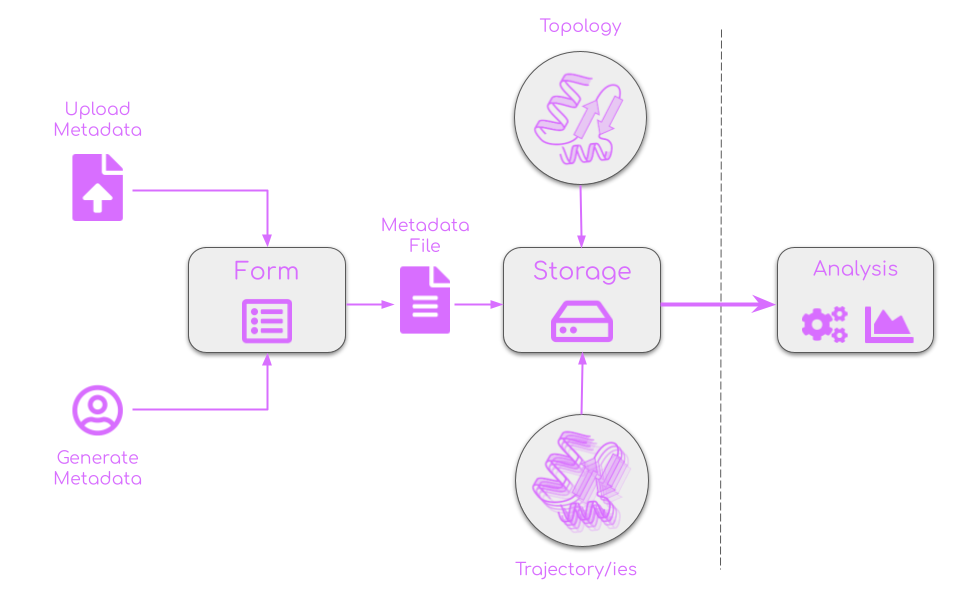
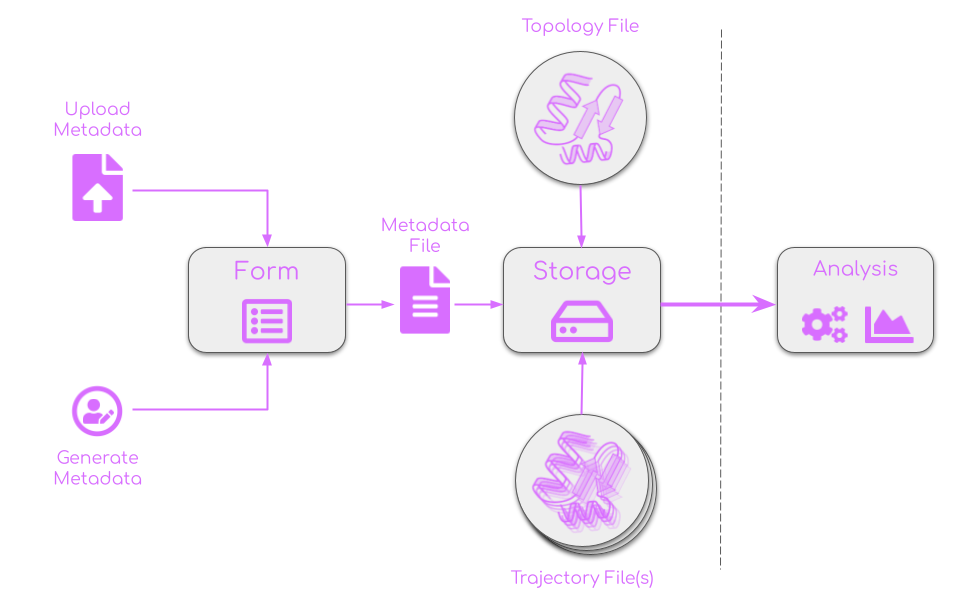
YAML input for each component except Ligans

diff --git a/pages/index.vue b/pages/index.vue
@@ -71,12 +71,18 @@
           rounded
           width="100%"
         >
-          <v-icon
-            class="mb-5"
-            color="purple-accent-1"
-            icon="mdi-playlist-edit"
-            size="80"
-          ></v-icon>
+          <span class="material-icons icon-stack">
+            <v-icon
+              color="purple-accent-1"
+              icon="mdi-circle-outline"
+              class="icon-back"
+            ></v-icon>
+            <v-icon
+              color="purple-accent-1"
+              icon="mdi-account-edit"
+              class="icon-front"
+            ></v-icon>
+          </span>
 
           <h2 class="text-h5 mb-6">{{ texts.start.title }}</h2>
 
@@ -122,7 +128,7 @@
   import validateYAML from '@/modules/structure/validateYAML'
 
   const { $globals } = useNuxtApp()
-  const { setMetadata } = structureStorage()
+  const { setMetadata, cleanMetadata } = structureStorage()
   const { validate } = validateYAML()
 
   const dialog = ref(false)
@@ -130,6 +136,8 @@
   const parsedYaml = ref(null)
 
   const metaDisabled = computed(() => !metaFile.value)
+
+  cleanMetadata()
 
   useHead({
     title: 'Home'
@@ -167,17 +175,22 @@
     if (!metaFile.value) return
 
     try {
+      // parse YAML
       const content = await readFileAsText(metaFile.value)
       parsedYaml.value = YAML.parse(content)
       const check = validate(content)
+      // check if valid
       if(!check.isValid) {
         //console.error('Error parsing YAML:', check.errors)
         metaFile.value = null
         openDialog('Error parsing YAML', `Parameter <strong>${check.errors[0].instancePath}</strong> ${check.errors[0].message}`, 'error')
         return
       }
-      console.log('store and go to upload')
-      // TODO: save parsedYaml.value to structureStorage and go to /upload
+      // store and go to upload page
+      Object.keys(parsedYaml.value).forEach(key => {
+        setMetadata(key, parsedYaml.value[key])
+      })
+      navigateTo('/upload')
     } catch (err) {
       console.error('Error parsing YAML:', err)
     }
@@ -222,4 +235,21 @@
   }
   .text-body-2 { min-height:40px; }
   .img-schema { max-width: 100%; }
+  .icon-stack {
+    position: relative;
+    display: inline-block;
+    margin-bottom: 20px;
+  }
+
+  .icon-back {
+    font-size: 80px;
+  }
+
+  .icon-front {
+    position: absolute;
+    top: 50%;
+    left: 50%;
+    transform: translate(-50%, -50%);
+    font-size: 50px;
+  }
 </style>

diff --git a/components/metadata/SelectField.vue b/components/metadata/SelectField.vue
@@ -54,16 +54,23 @@
   import useRules from '@/modules/helpers/useRules'
   import useREST from '@/modules/helpers/useREST'
 
-  const { setMetadata, getDependingItems } = structureStorage()
+  const { setMetadata, getDependingItems, getMetadataField } = structureStorage()
   const { getRules } = useRules()
   const { getSelectOptions } = useREST()
   const { $sleep } = useNuxtApp()
 
   const { props } = defineProps(['props'])
   const autocompleteRefs = ref([])
-  const truncateWidth = computed(() => autocompleteRefs.value.$el.offsetWidth + 'px')
+  const truncateWidth = computed(() => {
+    if(autocompleteRefs.value?.[0]?.$el) return autocompleteRefs.value[0].$el.offsetWidth + 'px'
+    else return '100px'
+  })
   const refModel = ref(props.default)
-  if(props.default !== undefined) setMetadata(props.id, refModel.value)
+  //if(props.default !== undefined) setMetadata(props.id, refModel.value)
+  // if the default value is set and the metadata field is not set, set the metadata field to the default value
+  if(props.default !== undefined && !getMetadataField(props.id)) setMetadata(props.id, refModel.value)
+  // if the metadata field is set, set the input value to the metadata field
+  if(getMetadataField(props.id)) refModel.value = getMetadataField(props.id)
   const required = ref(props.required)
   const otherField = ref(null)
   const other = ref(null)
@@ -75,6 +82,7 @@
   else if(props.depending) {
     items = computed(() => getDependingItems(props.depending))
     if(props.default !== undefined) refModel.value = items.value[props.default]
+    if(getMetadataField(props.id)) refModel.value = items.value[getMetadataField(props.id)]
   } else items.value = ref([])
 
   // add Other option if props.other is true

diff --git a/components/metadata/SelectInput.vue b/components/metadata/SelectInput.vue
@@ -59,21 +59,27 @@
   import structureStorage from '@/modules/structure/structureStorage'
   import useRules from '@/modules/helpers/useRules'
 
-  const { setMetadata } = structureStorage()
+  const { setMetadata, getMetadataField } = structureStorage()
   const { getRules } = useRules()
   const { $sleep } = useNuxtApp()
 
   const { props } = defineProps(['props'])
-  const refModelSelect = ref(null)
-  const refModelInput = ref(null)
   const otherField = ref(null)
   const other = ref(null)
 
   const select = props.fields.filter(f => f.type === 'select')[0]
   const items = select.items
   const input = props.fields.filter(f => f.type === 'input')[0]
-  setMetadata(select.id, refModelSelect.value)
-  setMetadata(input.id, refModelInput.value)
+  const refModelSelect = ref(select.default)
+  const refModelInput = ref(input.default)
+  // if the default value is set and the metadata field is not set, set the metadata field to the default value
+  if(select.default !== undefined && !getMetadataField(select.id)) setMetadata(select.id, refModelSelect.value)
+  if(input.default !== undefined && !getMetadataField(input.id)) setMetadata(input.id, refModelInput.value)
+  // if the metadata field is set, set the input value to the metadata field
+  if(getMetadataField(select.id)) refModelSelect.value = getMetadataField(select.id)
+  if(getMetadataField(input.id)) refModelInput.value = getMetadataField(input.id)
+  /*setMetadata(select.id, refModelSelect.value)
+  setMetadata(input.id, refModelInput.value)*/
 
   const selRules = ref(select.rules ? getRules(select.rules) : [])
   const inpRules = ref(input.rules ? getRules(input.rules) : [])

diff --git a/components/metadata/RichTextAreaField.vue b/components/metadata/RichTextAreaField.vue
@@ -24,13 +24,14 @@
   import structureStorage from '@/modules/structure/structureStorage'
   import useRules from '@/modules/helpers/useRules'
 
-  const { setMetadata } = structureStorage()
+  const { setMetadata, getMetadataField } = structureStorage()
   const { getRules } = useRules()
 
   const { props } = defineProps(['props'])
   const refModel = ref(null)
   const refModel2 = ref(null)
-  if(props.default !== undefined) setMetadata(props.id, refModel.value)
+  // if the default value is set and the metadata field is not set, set the metadata field to the default value
+  if(props.default !== undefined && !getMetadataField(props.id)) setMetadata(props.id, refModel.value)  
   const required = ref(props.required)
   // TODO
   const rules = ref(props.rules ? getRules(props.rules) : [])
@@ -54,6 +55,12 @@
     if (props.default) {
       editor.clipboard.dangerouslyPasteHTML(props.default);
       setMetadata(props.id, editor.root.innerHTML)
+      refModel2.value = editor.root.innerText == '\n' || editor.root.innerText == '' ? '' : editor.root.innerText
+    }
+
+    // if the metadata field is set, set the input value to the metadata field
+    if(getMetadataField(props.id)) {
+      editor.clipboard.dangerouslyPasteHTML(getMetadataField(props.id));
       refModel2.value = editor.root.innerText == '\n' || editor.root.innerText == '' ? '' : editor.root.innerText
     }
 

diff --git a/components/metadata/MultipleSelectField.vue b/components/metadata/MultipleSelectField.vue
@@ -63,7 +63,7 @@
   import useRules from '@/modules/helpers/useRules'
   import useREST from '@/modules/helpers/useREST'
 
-  const { setMetadata, getDependingItems } = structureStorage()
+  const { setMetadata/*, getDependingItems*/, getMetadataField } = structureStorage()
   const { getRules, checkAllValuesAgainstRules } = useRules()
   const { getSelectOptions } = useREST()
   const { $sleep } = useNuxtApp()
@@ -74,11 +74,14 @@
     if(autocompleteRefs.value?.[0]?.$el) return autocompleteRefs.value[0].$el.offsetWidth + 'px'
     else return '100px'
   })
-  let refInputs = ref([''])
-  if(props.default !== undefined) {
+  let refInputs = ref([null])
+  if(props.default !== undefined && !getMetadataField(props.id)) setMetadata(props.id, refInputs.value)
+  /*if(props.default !== undefined) {
     refInputs.value[0] = props.default
     setMetadata(props.id, refInputs.value)
-  }
+  }*/
+  if(getMetadataField(props.id)) refInputs.value = getMetadataField(props.id)
+
 
   /*const refModel = ref(props.default)
   if(props.default !== undefined) setMetadata(props.id, refModel.value)*/

diff --git a/components/metadata/InputField.vue b/components/metadata/InputField.vue
@@ -20,12 +20,15 @@
   import structureStorage from '@/modules/structure/structureStorage'
   import useRules from '@/modules/helpers/useRules'
 
-  const { setMetadata } = structureStorage()
+  const { setMetadata, getMetadataField } = structureStorage()
   const { getRules } = useRules()
 
   const { props } = defineProps(['props'])
   const refModel = ref(props.default)
-  if(props.default !== undefined) setMetadata(props.id, refModel.value)
+  // if the default value is set and the metadata field is not set, set the metadata field to the default value
+  if(props.default !== undefined && !getMetadataField(props.id)) setMetadata(props.id, refModel.value)
+  // if the metadata field is set, set the input value to the metadata field
+  if(getMetadataField(props.id)) refModel.value = getMetadataField(props.id)
   const required = ref(props.required)
   const rules = ref(props.rules ? getRules(props.rules) : [])
 

diff --git a/components/metadata/NumberField.vue b/components/metadata/NumberField.vue
@@ -23,12 +23,15 @@
   import structureStorage from '@/modules/structure/structureStorage'
   import useRules from '@/modules/helpers/useRules'
 
-  const { setMetadata } = structureStorage()
+  const { setMetadata, getMetadataField } = structureStorage()
   const { getRules } = useRules()
 
   const { props } = defineProps(['props'])
   const refModel = ref(props.default)
-  if(props.default !== undefined) setMetadata(props.id, refModel.value)
+  // if the default value is set and the metadata field is not set, set the metadata field to the default value
+  if(props.default !== undefined && !getMetadataField(props.id)) setMetadata(props.id, refModel.value)
+  // if the metadata field is set, set the input value to the metadata field
+  if(getMetadataField(props.id)) refModel.value = getMetadataField(props.id)
   const required = ref(props.required)
   const rules = ref(props.rules ? getRules(props.rules) : [])
 

diff --git a/components/metadata/TextAreaField.vue b/components/metadata/TextAreaField.vue
@@ -20,12 +20,15 @@
   import structureStorage from '@/modules/structure/structureStorage'
   import useRules from '@/modules/helpers/useRules'
 
-  const { setMetadata } = structureStorage()
+  const { setMetadata, getMetadataField } = structureStorage()
   const { getRules } = useRules()
 
   const { props } = defineProps(['props'])
   const refModel = ref(props.default)
-  if(props.default !== undefined) setMetadata(props.id, refModel.value)
+  // if the default value is set and the metadata field is not set, set the metadata field to the default value
+  if(props.default !== undefined && !getMetadataField(props.id)) setMetadata(props.id, refModel.value)
+  // if the metadata field is set, set the input value to the metadata field
+  if(getMetadataField(props.id)) refModel.value = getMetadataField(props.id)
   const required = ref(props.required)
   const rules = ref(props.rules ? getRules(props.rules) : [])
 

diff --git a/components/metadata/MultipleMultiInputField.vue b/components/metadata/MultipleMultiInputField.vue
@@ -62,7 +62,7 @@
   import structureStorage from '@/modules/structure/structureStorage'
   import useRules from '@/modules/helpers/useRules'
 
-  const { setMultiMultiMetadata, setMetadata } = structureStorage()
+  const { setMultiMultiMetadata, setMetadata, getMetadataField } = structureStorage()
   const { getMultipleRules, checkMultipleValuesAgainstRules } = useRules()
 
   const { props } = defineProps(['props'])
@@ -73,7 +73,9 @@
   }, {})
 
   const modelGroup = ref([{ ...initModel }])
-  setMetadata(props.id, modelGroup.value)
+  //setMetadata(props.id, modelGroup.value)
+  if(props.default !== undefined && !getMetadataField(props.id)) setMetadata(props.id, modelGroup.value)
+  if(getMetadataField(props.id)) modelGroup.value = getMetadataField(props.id)
 
   const required = ref(props.required)
   const rules = ref(props.rules ? getMultipleRules(props.rules, Object.keys(initModel)) : [])

diff --git a/nuxt.config.ts b/nuxt.config.ts
@@ -1,3 +1,5 @@
+import colors from 'vuetify/util/colors'
+
 // modify baseURL depending on the server where the app is running
 const baseURL = process.env.APP_TYPE == 'development' ? process.env.BASE_URL_DEVELOPMENT : process.env.APP_TYPE == 'staging' ? process.env.BASE_URL_STAGING : process.env.BASE_URL_PRODUCTION
 
@@ -17,11 +19,15 @@ export default defineNuxtConfig({
     vuetifyOptions: {
       // @TODO: list all vuetify options
       theme: {
+        // @ts-ignore
+        options: { customProperties: true },
         themes: {
           light: {
             dark: false,
             colors: {
-              primary: '#ff0000'
+              primary: '#ff0000',
+              // import colors from vuetify/util/colors in order to use them in css as variables
+              'purple-accent-1': colors.purple.accent1,
             }
           },
         },

diff --git a/components/metadata/MultipleInputField.vue b/components/metadata/MultipleInputField.vue
@@ -27,15 +27,18 @@
   import structureStorage from '@/modules/structure/structureStorage'
   import useRules from '@/modules/helpers/useRules'
 
-  const { setMetadata } = structureStorage()
+  const { setMetadata, getMetadataField } = structureStorage()
   const { getRules, checkAllValuesAgainstRules } = useRules()
 
   const { props } = defineProps(['props'])
   let refInputs = ref([''])
-  if(props.default !== undefined) {
+  /*if(props.default !== undefined) {
     refInputs.value[0] = props.default
     setMetadata(props.id, refInputs.value)
-  }
+  }*/
+  if(props.default !== undefined && !getMetadataField(props.id)) setMetadata(props.id, refInputs.value)
+  if(getMetadataField(props.id)) refInputs.value = getMetadataField(props.id)
+
   const required = ref(props.required)
   const rules = ref(props.rules ? getRules(props.rules) : [])
 

diff --git a/components/metadata/Interactions.vue b/components/metadata/Interactions.vue
@@ -84,7 +84,7 @@
 
   import structureStorage from '@/modules/structure/structureStorage'
 
-  const { setMetadata } = structureStorage()
+  const { setMetadata, getMetadataField } = structureStorage()
 
   import useREST from '@/modules/helpers/useREST'
 
@@ -97,6 +97,12 @@
   const initOther = {type: null, agent_1: null, agent_2: null}
   const other = ref([{ ...initOther }])
   const refOther = ref([{ ...initOther }])
+
+  if(getMetadataField(props.id)) {
+    modelGroup.value = getMetadataField(props.id)
+    // reset other fields to null with the same length as modelGroup
+    other.value = modelGroup.value.map(() => ({ ...initOther }));
+  }
 
   const items = {
     type: await getSelectOptions(props.fields.filter(item => item.id === 'type')[0].options),
